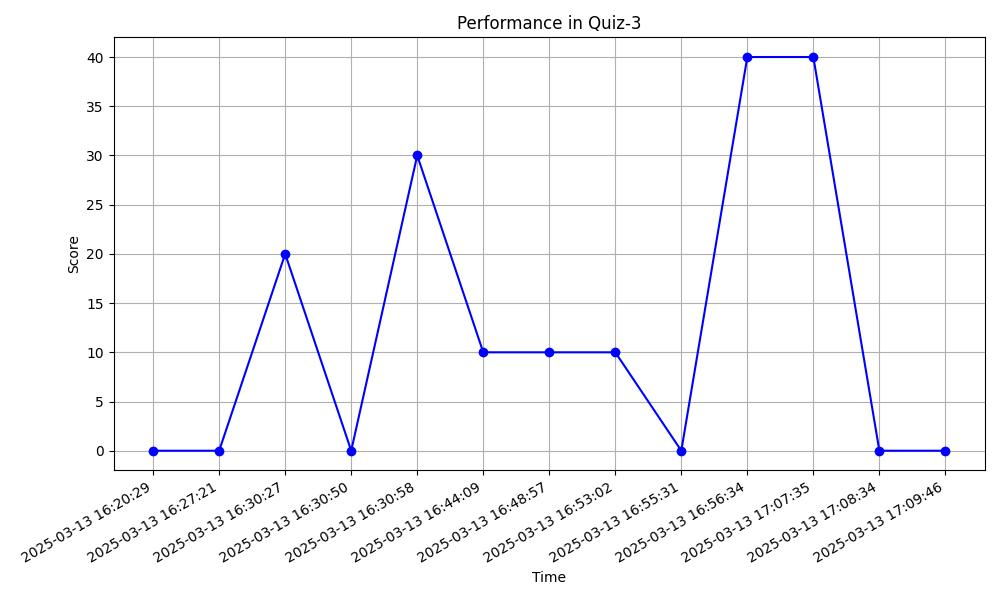
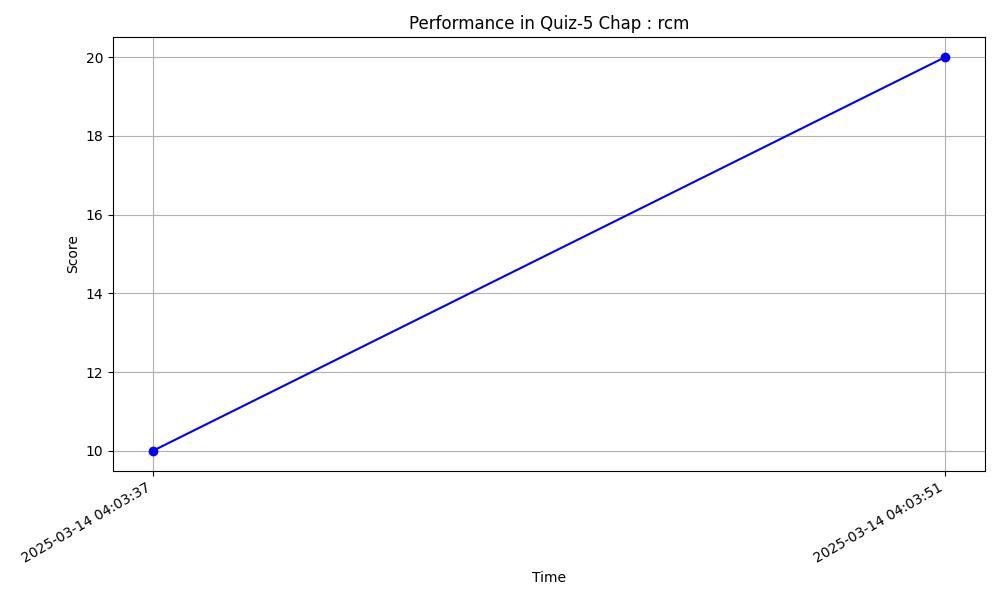
flash done

diff --git a/templates/admin_summary.html b/templates/admin_summary.html
@@ -3,7 +3,7 @@
 
 {% block content %}
 <div class="container">
-  <div class="row">
+  <div style="display: flex;" class="row">
     
     <!-- <div class="col">
       <div class="card" style="width:33rem;">
@@ -17,6 +17,17 @@
       </div>
     </div> -->
 
+    <div class="col">
+      <div class="card" style="width:33rem;">
+        <div class="card-body">
+          <h5 class="card-title">Subject-Score Summary</h5>
+          <h6 class="card-subtitle mb-2 text-muted">Quiz/Questions</h6>
+          <div>
+            <img src="./static/images/subject_score_summary.jpeg" width="300" height="300">
+          </div>
+        </div>
+      </div>
+    </div>
 
     <div class="col">
       <div class="card" style="width:33rem;">

diff --git a/templates/quizes.html b/templates/quizes.html
@@ -19,7 +19,7 @@
             <p style="font-size: large;"><b class="orange_text">Date/Time :</b> {{quiz.date_time}}</p>
             <p style="font-size: large;"><b class="orange_text">Duration :</b> {{quiz.duration}}</p>
             <p style="font-size: large;"><b class="orange_text">Score :</b> {{quiz.score}}</p>
-            <p style="font-size: large;"><b class="orange_text">Maxm. Marks :</b> {{quiz.quiz_maxm_score}}</p>
+            <p style="font-size: large;"><b class="orange_text">Target :</b> {{quiz.quiz_maxm_score}}</p>
         </div>
 
 

diff --git a/templates/admin_layout.html b/templates/admin_layout.html
@@ -69,6 +69,20 @@
 </div>
 
 
+{% with messages = get_flashed_messages(with_categories=true) %}
+{% if messages %}
+    {% for category, message in messages %}
+        <div class="alert alert-{{ category }} alert-dismissible fade show" role="alert">
+            {{ message }}
+            <button type="button" class="close" data-dismiss="alert" aria-label="Close">
+                <span aria-hidden="true">&times;</span>
+            </button>
+        </div>
+    {% endfor %}
+{% endif %}
+{% endwith %}
+
+
 {% block content %}
 
 {% endblock %}

diff --git a/templates/user_layout.html b/templates/user_layout.html
@@ -80,7 +80,7 @@
 </div>
 
 
-{% block content %}
+
 
 {% with messages = get_flashed_messages(with_categories=true) %}
 {% if messages %}
@@ -95,6 +95,9 @@
 {% endif %}
 {% endwith %}
 
+
+
+{% block content %}
 
 {% endblock %}
 

diff --git a/controllers/routes.py b/controllers/routes.py
@@ -15,6 +15,9 @@ import matplotlib.pyplot as plt  # Now import pyplot
 
 
 
+
+
+
 # general routes
 gen = Blueprint('general_routes', __name__)  
 data = Blueprint('database_routes', __name__)  
@@ -23,6 +26,12 @@ user = Blueprint('user', __name__)
 
 
 
+
+
+# @gen.route('/test_flash')
+# def test_flash():
+#     flash("This is a test flash message!", "danger")
+#     return redirect(url_for("general_routes.login"))
 
 
 
@@ -54,31 +63,36 @@ def login():
         pwd   = request.form.get("password")
 
         usr = User_Info.query.filter_by(email=email).first()
-        pass_match = bcrypt.check_password_hash(usr.password, pwd)
+        if usr:
+            pass_match = bcrypt.check_password_hash(usr.password, pwd)
+        else:
+            flash("Invalid Email Or Password.!","danger")
+            return redirect(url_for("general_routes.login"))
         
-        #existed and admin
-        if usr and pass_match and usr.role==0: 
-            login_user(usr)
-            flash("Welcome Admin!","success")
-            return redirect(url_for("admin.admin_dashboard"))
-        #existed and user
-        elif usr and pass_match and usr.role==1:
-            login_user(usr)
-            flash("Login Successful, Welcome!","success")
-            return redirect(url_for("user.user_dashboard"))
+        #existed 
+        if usr and pass_match : 
+            # admin
+            if  usr.role==0:
+                login_user(usr)
+                flash("Welcome Admin!","success")
+                return redirect(url_for("admin.admin_dashboard"))
+            # user
+            else :
+                login_user(usr)
+                flash("Login Successful, Welcome!","success")
+                return redirect(url_for("user.user_dashboard"))
         # no one
         else:
             flash("Invalid Email Or Password.!","danger")
-            return render_template('login.html',msg="Invalid User Credentials.")
-    return render_template('login.html',msg="")
+            return redirect(url_for("general_routes.login"))
+    return render_template('login.html')
 
 
 
 
-@gen.route('/test_flash')
-def test_flash():
-    flash("This is a test flash message!", "info")
-    return render_template("login.html")  # ✅ Render directly
+
+
+
 
 
 
@@ -98,7 +112,7 @@ def signup():
         # email already exists
         if usr:
             flash("Sorry, this email is already register...!", "danger")
-            return render_template('signup.html')
+            return redirect(url_for("general_routes.signup"))
         
         hash_pwd = bcrypt.generate_password_hash(pwd).decode("utf-8")
         new_usr = User_Info(email=email, password=hash_pwd, full_name=full_name, qualification=quali, dob = dob)
@@ -106,7 +120,7 @@ def signup():
         db.session.add(new_usr)
         db.session.commit()
         flash("Registration Successful. Try Login Now.", "success")
-        return render_template("login.html")
+        return redirect(url_for("general_routes.login"))
     return render_template('signup.html')
 
 
@@ -171,6 +185,36 @@ def get_users_quiz_summary():
     return plt
 
 
+
+
+
+def get_subject_score_summary():
+    quizes = get_quizes()
+    summary = {q.chapter.subject.name: q.quiz_maxm_score for q in quizes}
+    
+    x_names = list(summary.keys())
+    y_scores = list(summary.values())
+
+    plt.figure(figsize=(10, 6))  # Set figure size
+    bars = plt.bar(x_names, y_scores, color=["red", "blue", "green", "purple", "orange"])
+    plt.title("Subject Score Summary")
+    plt.xlabel("Subject")
+    plt.ylabel("Score")
+    # plt.xticks(rotation=45)  # Rotate labels for readability
+
+    # Annotate each bar with its score
+    for bar in bars:
+        height = bar.get_height()
+        plt.text(
+            bar.get_x() + bar.get_width() / 2,
+            height,
+            f'{int(height)}',
+            ha='center',
+            va='bottom'
+        )
+        
+    plt.tight_layout()
+    return plt
 
 
 
@@ -241,22 +285,30 @@ def admin_summary():
     if(plot1):
         plot1.savefig("./static/images/users_summary.jpeg")
     else:
-        return render_template('msg.html', msg = "Plot image not found")
+        return render_template('msg.html')
+        # return render_template('msg.html', msg = "Plot image not found")
 
     plot2 = get_chapter_score_summary()
     if plot2:
         plot2.savefig("./static/images/chap_score_summary.jpeg")
     else:
-        return render_template('msg.html', msg = "Plot image not found")
+        return render_template('msg.html')
+        # return render_template('msg.html', msg = "Plot image not found")
 
 
     plot3 = get_quiz_que_summary()
     if plot3:
         plot3.savefig("./static/images/quiz_summary.jpeg") 
     else:
-        return render_template('msg.html', msg = "Plot image not found")
-        
-
+        return render_template('msg.html')
+        # return render_template('msg.html', msg = "Plot image not found")
+    
+    plot4 = get_subject_score_summary()
+    if plot4:
+        plot4.savefig("./static/images/subject_score_summary.jpeg") 
+    else:
+        return render_template('msg.html')
+        # return render_template('msg.html', msg = "Plot image not found")
     plt.close() 
 
     return render_template('admin_summary.html')
@@ -681,7 +733,7 @@ def get_users_score_summary(quizes):
         
         plt.figure(figsize=(10, 6))
         plt.plot(x_values, y_values, marker="o", linestyle="-", color="blue")
-        plt.title(f"Performance in Quiz-{q.id}")
+        plt.title(f"Performance in Quiz-{q.id} Chap : {q.chapter.name}")
         plt.xlabel("Time")
         plt.ylabel("Score")
         plt.gcf().autofmt_xdate()
@@ -857,11 +909,11 @@ def quiz_summary(quiz_id):
     
     quiz = Quiz.query.filter_by(id=quiz_id).first()
     if not quiz:
-        # flash("Quiz not found.", "danger")
+        flash("Quiz not found.", "danger")
         return redirect(url_for("user.dashboard")) 
 
     
-    max_score_raw = db.session.query(func.max(Score.score)).filter(Score.quiz_id == quiz_id).scalar() or 0
+    max_score_raw = db.session.query(func.max(Score.score)).filter(Score.quiz_id == quiz_id, Score.user_id == current_user.id).scalar() or 0
     print(max_score_raw)
     
     if quiz.score > 0:

diff --git a/models/models.py b/models/models.py
@@ -98,7 +98,8 @@ class Quiz(db.Model):
 
     date_time = db.Column(db.DateTime, nullable=False)
     duration = db.Column(db.Time, nullable=False)
-    score = db.Column(db.Integer, nullable=False)
+    #total score
+    score = db.Column(db.Integer, nullable=False)   
     is_attempted = db.Column(db.Boolean, default=False)
     
     quiz_maxm_score = db.Column(db.Integer, default=0)

diff --git a/app.py b/app.py
@@ -8,7 +8,7 @@ bcrypt = Bcrypt(app)
 
 
 app.config['SQLALCHEMY_DATABASE_URI'] = 'sqlite:///db.db'
-app.config['SECRET_KEY'] = bcrypt.generate_password_hash("supersecretkey").decode('utf-8')
+app.config['SECRET_KEY'] = "1234567890!@#$%^&*()"
 
 login_manager = LoginManager(app)
 login_manager.login_view = "general_routes.login"
